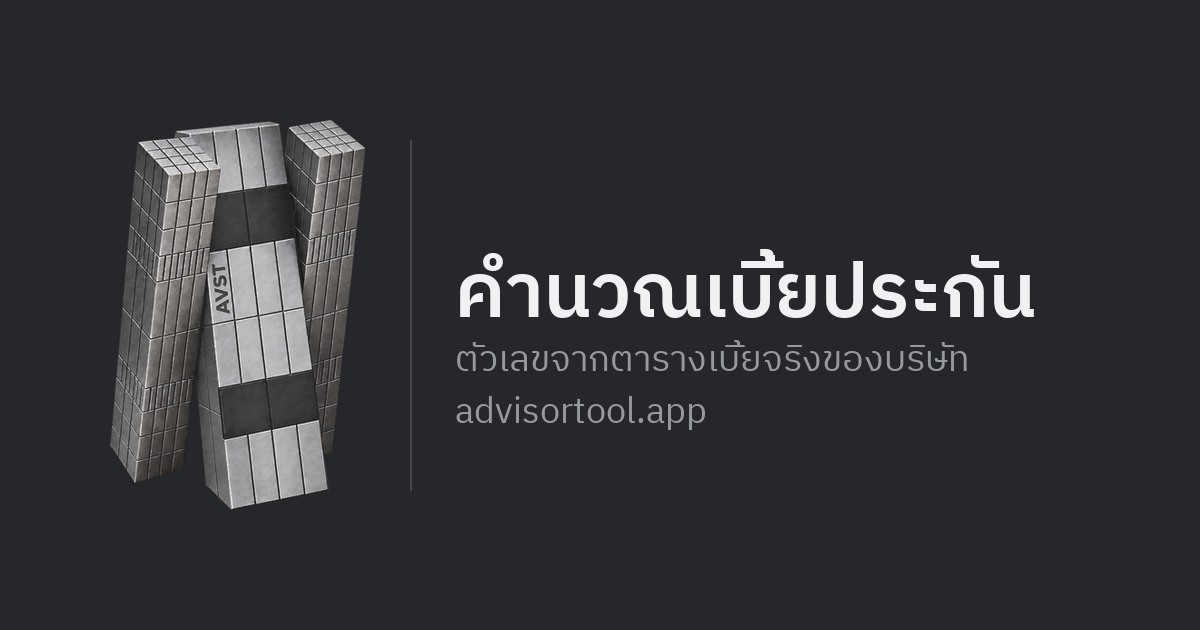
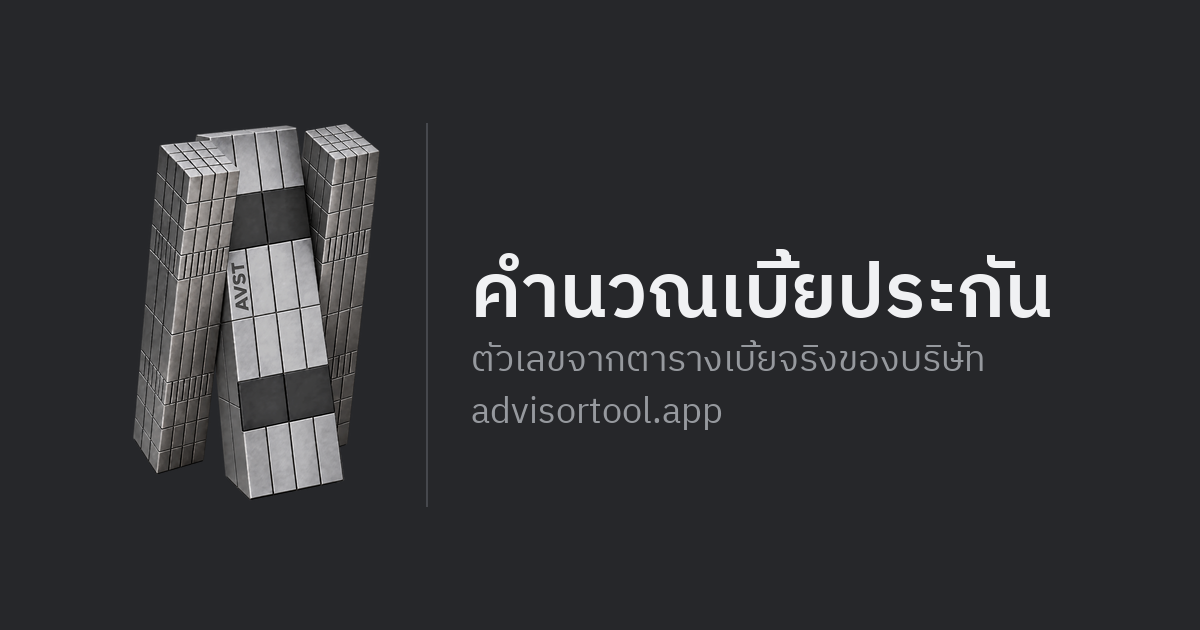
change(brand): the real artwork, with nothing behind it
The owner supplied a version of the mark with genuine transparency — 38 per cent
of the frame clear, a soft edge across the rest — which is what the first file
did not have. That file was opaque everywhere, and its ground was the same
#26272A as the dark blocks on the letter itself: a colour key put holes through
the N, a border flood ate the two diagonal bands, and a morphological close
brought the bands back with debris stuck to the sides. The dark tile was the
answer to a problem this file does not have, so it is gone.

Every derived image is rebuilt from the new source and trimmed to its own bbox
first, so a margin in the export does not become a margin baked into each icon.
On the cards and in the chat the mark is now printed straight onto whatever is
behind it, sized by height rather than boxed into a square — it is half again as
tall as it is wide, and a square set it in a column of air.

The tab and home-screen icons keep a ground, which is not an oversight: a
transparent favicon vanishes into a dark browser toolbar, and iOS composites an
apple-icon onto white whatever its alpha says, so it is better to choose the
colour than to be given one.

Changed region(s): [[0.0925, 0.181, 0.8942, 0.8143]]

diff --git a/src/app/Chat.tsx b/src/app/Chat.tsx
@@ -137,8 +137,8 @@ export function Chat({ guide }: { guide: GuideGroup[] }) {
         <div className="flex items-start gap-3">
           {/* eslint-disable-next-line @next/next/no-img-element */}
           <img
-            src="/mark.png" alt="" width={40} height={40}
-            className="mt-0.5 h-10 w-10 shrink-0 rounded-lg"
+            src="/mark.png" alt="" width={32} height={40}
+            className="mt-0.5 h-10 w-auto shrink-0"
           />
         <div>
           <h1 className="text-xl font-semibold tracking-tight sm:text-2xl">ถามเรื่องแบบประกัน</h1>
@@ -202,8 +202,8 @@ export function Chat({ guide }: { guide: GuideGroup[] }) {
             {t.role === "assistant" && (
               // eslint-disable-next-line @next/next/no-img-element
               <img
-                src="/mark.png" alt="" width={28} height={28}
-                className="mt-1 h-7 w-7 shrink-0 rounded-md"
+                src="/mark.png" alt="" width={22} height={28}
+                className="mt-1 h-7 w-auto shrink-0"
               />
             )}
             <div

diff --git a/src/app/api/card/route.tsx b/src/app/api/card/route.tsx
@@ -244,7 +244,7 @@ export async function GET(req: NextRequest) {
           {/* where it came from, on the thing that travels furthest from here */}
           <div style={{ ...band(SIGNATURE_HEIGHT), alignItems: "flex-end", gap: 12 }}>
             {/* eslint-disable-next-line @next/next/no-img-element */}
-            <img src={mark} width={30} height={30} alt="" style={{ borderRadius: 7 }} />
+            <img src={mark} height={34} alt="" />
             <span style={{ fontSize: 21, color: p.mute }}>{SIGNATURE_TEXT}</span>
           </div>
           {card.notes.map((n) => (

diff --git a/src/app/api/ihealthy-card/route.tsx b/src/app/api/ihealthy-card/route.tsx
@@ -112,7 +112,7 @@ export async function GET(req: NextRequest) {
           {/* where it came from, on the thing that travels furthest from here */}
           <div style={{ ...band(SIGNATURE_HEIGHT), alignItems: "flex-end", gap: 12 }}>
             {/* eslint-disable-next-line @next/next/no-img-element */}
-            <img src={mark} width={30} height={30} alt="" style={{ borderRadius: 7 }} />
+            <img src={mark} height={34} alt="" />
             <span style={{ fontSize: 21, color: MUTE }}>{SIGNATURE_TEXT}</span>
           </div>
           {card.notes.map((n) => (

diff --git a/src/app/api/ihealthy-card/table/route.tsx b/src/app/api/ihealthy-card/table/route.tsx
@@ -68,7 +68,7 @@ export async function GET(req: NextRequest) {
           {/* where it came from, on the thing that travels furthest from here */}
           <div style={{ ...band(SIGNATURE_HEIGHT), alignItems: "flex-end", gap: 12 }}>
             {/* eslint-disable-next-line @next/next/no-img-element */}
-            <img src={mark} width={30} height={30} alt="" style={{ borderRadius: 7 }} />
+            <img src={mark} height={34} alt="" />
             <span style={{ fontSize: 21, color: MUTE }}>{SIGNATURE_TEXT}</span>
           </div>
           {card.notes.map((n) => (

diff --git a/src/app/api/card/table/route.tsx b/src/app/api/card/table/route.tsx
@@ -267,7 +267,7 @@ export async function GET(req: NextRequest) {
         {/* where it came from, on the thing that travels furthest from here */}
         <div style={{ ...band(SIGNATURE_HEIGHT), alignItems: "flex-end", gap: 12 }}>
           {/* eslint-disable-next-line @next/next/no-img-element */}
-          <img src={mark} width={30} height={30} alt="" style={{ borderRadius: 7 }} />
+          <img src={mark} height={34} alt="" />
           <span style={{ fontSize: 20, color: p.mute }}>{SIGNATURE_TEXT}</span>
         </div>
         {card.notes.map((n) => (
